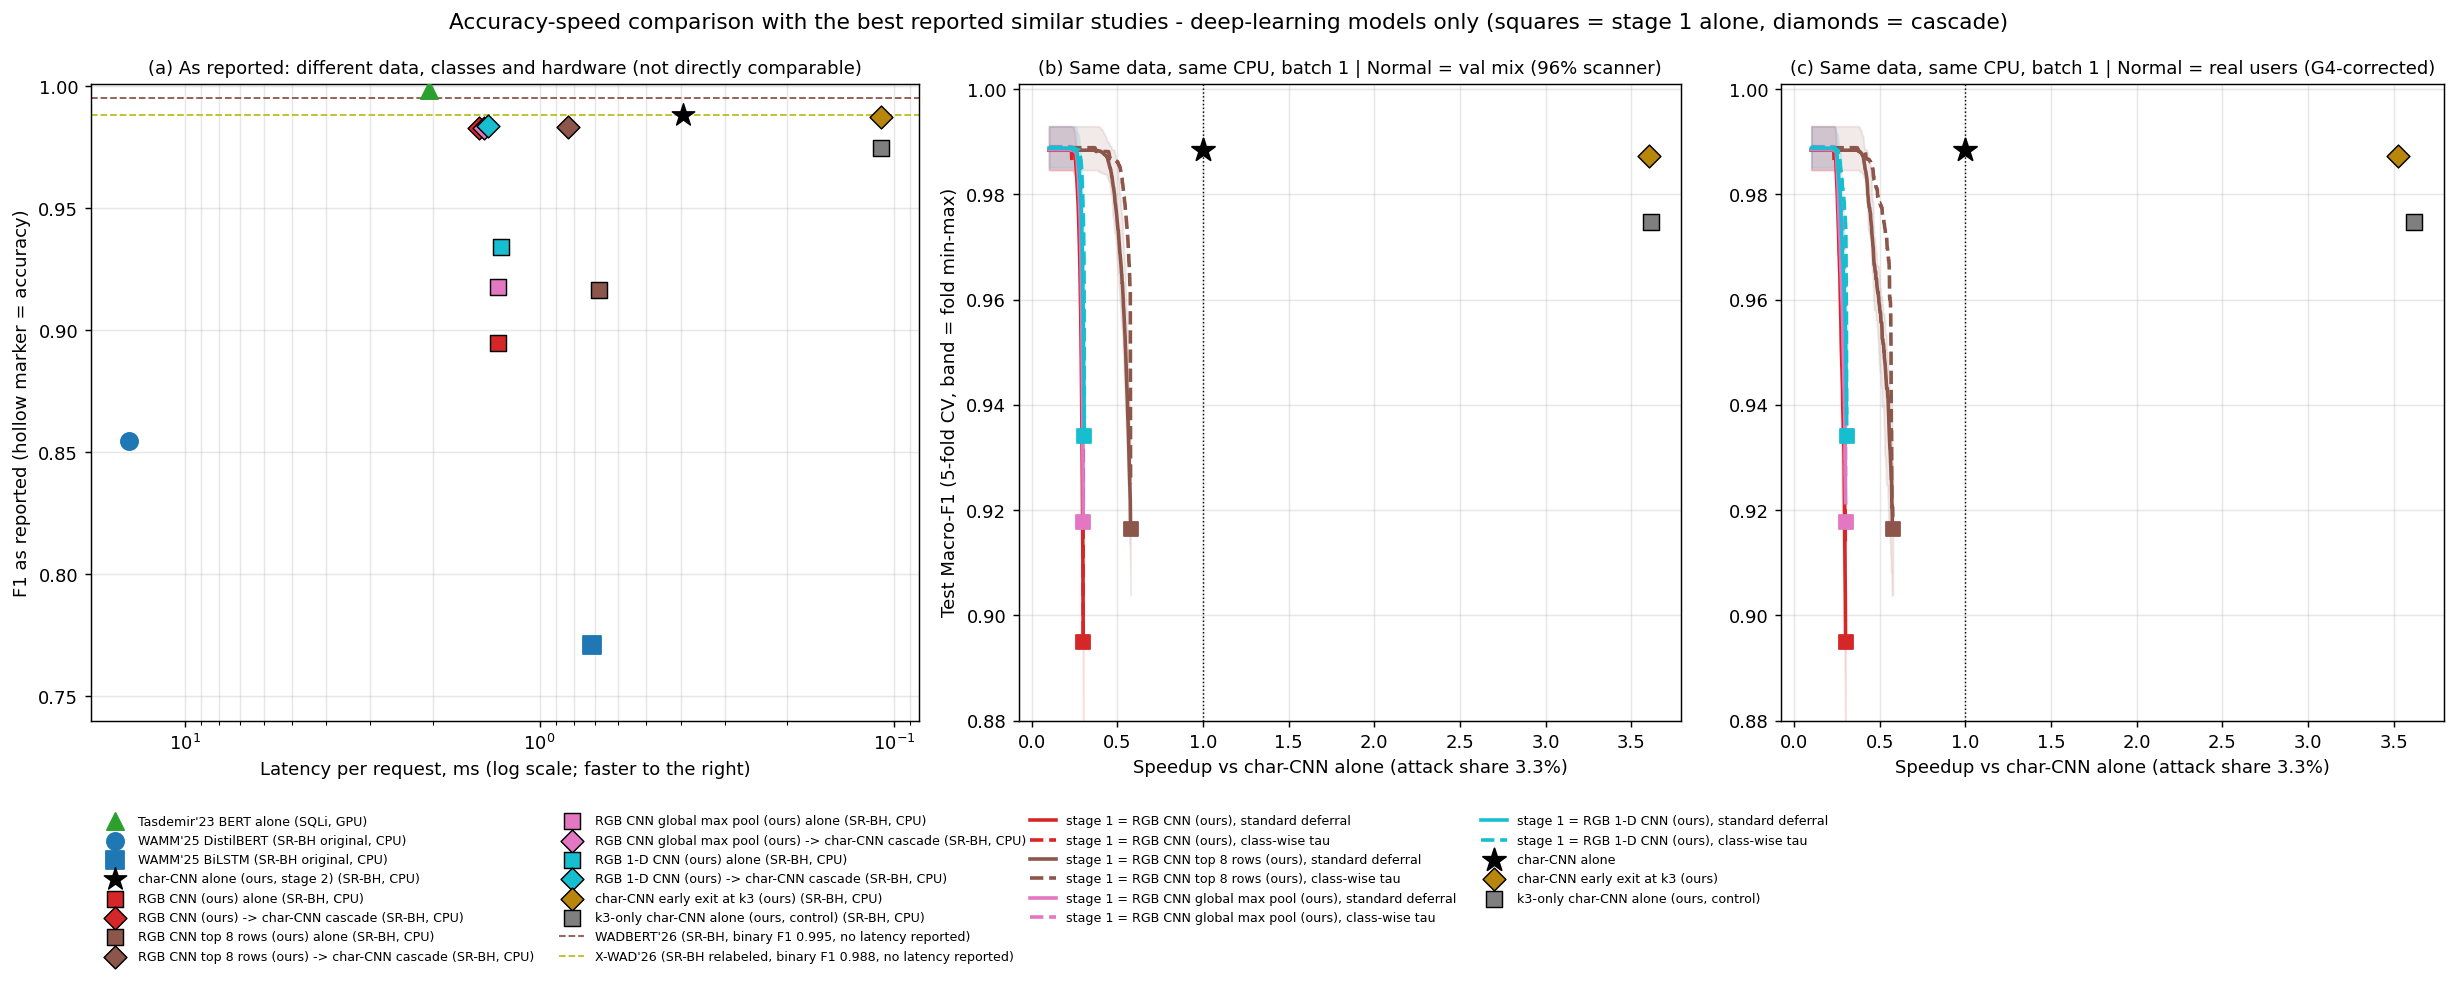
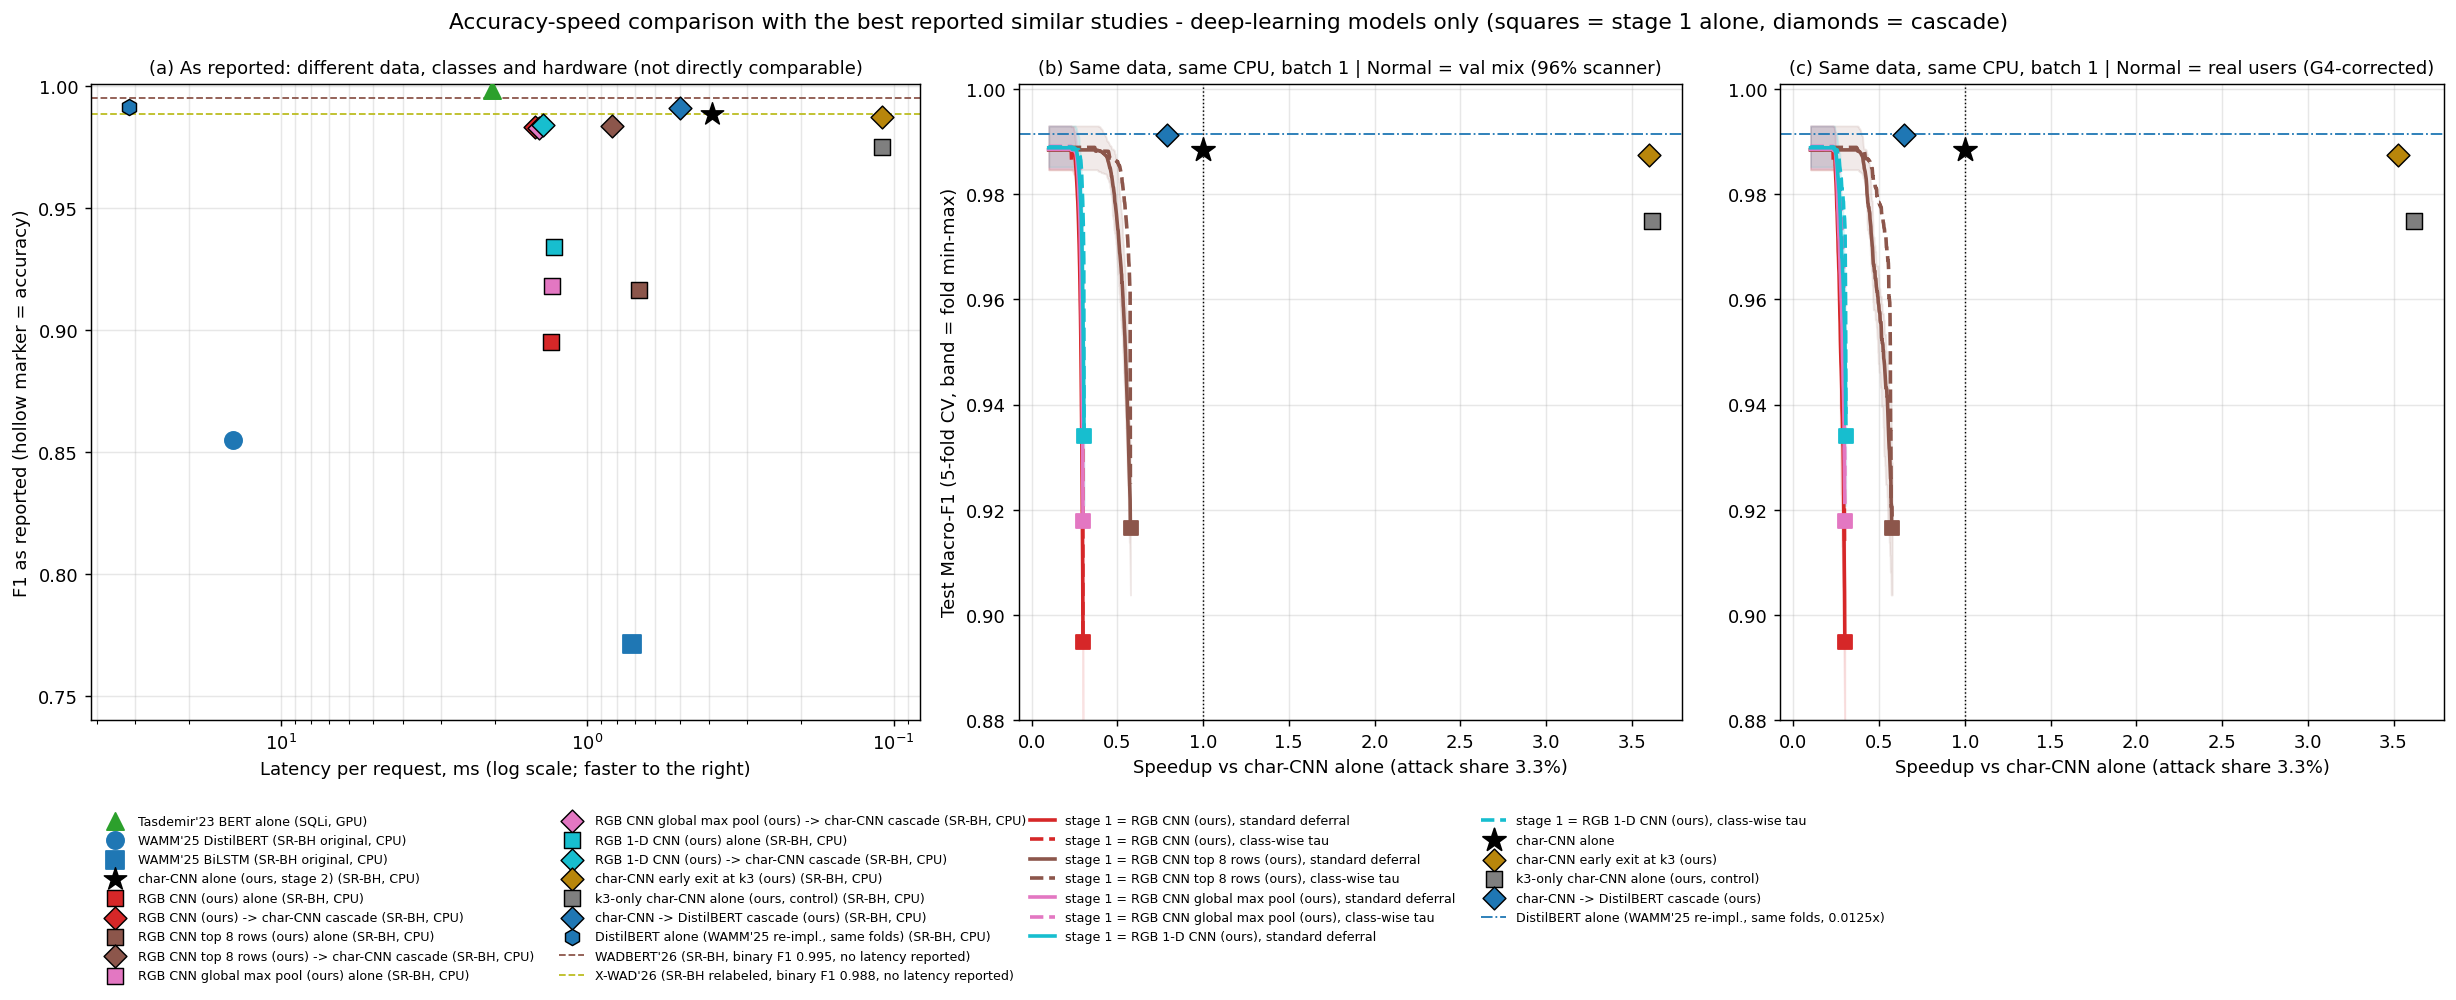
docs(roadmap): DL-A(E10) 결과 — char-CNN → DistilBERT 는 재구현 DistilBERT 단독보다 위다
같은 fold 로 재구현한 WAMM'25 DistilBERT 는 Macro-F1 0.9914 로 char-CNN 단독(0.9884)을 넘어
관문을 통과했지만 차이는 유의하지 않다(p 0.57). CPU 스레드 1 에서 45ms 로 char-CNN 의 80배다.
char-CNN → DistilBERT 캐스케이드는 실사용자 분포에서 DistilBERT 단독과 같은 정확도(−0.03%p)를
51.6배 빠르게 내 사전 기준을 채웠다(seed 42, fold 4 는 2.95배). char-CNN 단독은 80배지만
−0.303%p 로 0.3%p 조건을 근소하게 못 채웠다. 딥러닝 한정 유사 연구 그림에 두 점을 더한다.

diff --git a/src/eval/literature_compare.py b/src/eval/literature_compare.py
@@ -57,6 +57,8 @@ STAGE1_STYLE = {"rgb_cnn": ("tab:red", "RGB CNN (ours)"), "tfidflr": ("tab:purpl
 CLASSICAL_STAGE1 = {"tfidflr", "hashlr"}
 # 딥러닝 판에만 올리는 char-CNN 내부 조기 종료(DL-C, E8 운영점)와 k3 단독 대조(E9-1). 기술만 한다(사전 문서 §E9-3).
 DL_CASCADE = GF.RESULTS / "dl_cascade_srbh_4class.json"
+# 같은 SR-BH fold 로 재구현한 WAMM DistilBERT(E10-2 의 R)와 char-CNN → DistilBERT 운영점(E10-3). 기술만 한다.
+DL_A = GF.RESULTS / "dl_a_srbh_4class.json"
 
 
 def dl_cascade_points(view):
@@ -69,7 +71,22 @@ def dl_cascade_points(view):
     if "k3_alone" in result:
         points.append(("k3-only char-CNN alone (ours, control)", result["k3_alone"]["speedup"],
                        result["k3_alone"]["macro_f1"], "s", "tab:gray"))
+    if DL_A.exists():
+        # E10-3 운영점. 배수는 같은 실행의 char-CNN 지연 기준(t2 / (t2 + E_π·t_R)) — 이 그림의 다른 점과 같은 기준이다.
+        row = json.loads(DL_A.read_text(encoding="utf-8"))["e10_3"][view]
+        if "reason" not in row:
+            points.append(("char-CNN -> DistilBERT cascade (ours)", row["vs_charcnn"]["latency_ratio"],
+                           row["b0"]["macro_f1"], "D", "tab:blue"))
     return points
+
+
+def distilbert_reimpl():
+    """같은 fold 로 재구현한 WAMM DistilBERT 단독(E10-2 의 R): (char-CNN 대비 배수, Macro-F1). 없으면 None."""
+    if not DL_A.exists():
+        return None
+    result = json.loads(DL_A.read_text(encoding="utf-8"))
+    ms = result["latency_ms"]
+    return ms["t2"] / ms["t_R"], result["distilbert_macro_f1"]
 
 
 def stage1_styles(dl_only):
@@ -96,6 +113,9 @@ def ours_reported_style(analysis, styles, view="val_mix"):
     if "rgb_cnn" in styles and "tfidflr" not in styles:     # 딥러닝 판(stage1_styles(dl_only=True))에서만
         points += [(label, ms2 / speedup, score, marker, color)
                    for label, speedup, score, marker, color in dl_cascade_points(view)]
+        if distilbert_reimpl():
+            speedup, score = distilbert_reimpl()
+            points.append(("DistilBERT alone (WAMM'25 re-impl., same folds)", ms2 / speedup, score, "h", "tab:blue"))
     return points
 
 
@@ -144,6 +164,11 @@ def plot(analysis, loaded, styles, dl_only=False):
         for label, speedup, score, marker, color in (dl_cascade_points(GF.NORMAL_VIEWS[col][0]) if dl_only else []):
             ax.scatter([speedup], [score], marker=marker, s=80, color=color, edgecolors="k", linewidths=.8,
                        zorder=6, label=label)
+        if dl_only and distilbert_reimpl():
+            # 배수가 0.01 대라 점으로 찍으면 가로축이 눌린다 — 정확도만 가로선으로 보인다.
+            speedup, score = distilbert_reimpl()
+            ax.axhline(score, color="tab:blue", lw=1, ls="-.",
+                       label=f"DistilBERT alone (WAMM'25 re-impl., same folds, {speedup:.4f}x)")
         ax.axvline(1.0, color="k", lw=.8, ls=":")
         ax.set_ylim(0.88, 1.001)
         ax.set_xlabel("Speedup vs char-CNN alone (attack share 3.3%)")

diff --git a/CLAUDE.md b/CLAUDE.md
@@ -41,11 +41,14 @@
   - 📌 **견고성(docs/14 §8.27·§8.28)**: 템플릿 묶음 CV 에서 점수 유지(T5). 1차 class weight 결정은 CV 에서도 +27%(채움 기준·검증 분포) — test 의 0.99→1.45배(+46%)는 **확인용**으로 내리고, 실사용자 분포(+5%)·공정 지연(+1~6%)에서는 이득이 없다고 병기. 고정 test 는 아홉 번 평가에 쓰였다(감사표 §8.28). T8(2인 라벨 감사)은 미실시.
 - 📌 **딥러닝 한정 후속 후보(2026-10-11 등록 · 미측정, docs/14 §8.30)**: 사용자 방향 = 제안 구성은 딥러닝만(고전 ML 은 비교 기준으로만), RGB CNN 은 필수 아님 — ⚠ 마스터 문서·제목에는 미반영(교수 확인 전).
   `DL-A` char-CNN → 트랜스포머 · `DL-B` 더 작은 문자 모델 → char-CNN · `DL-C` char-CNN 내부 조기 종료. 관문: DL-B·C 는 char-CNN 층별 시간 측정(학습 불필요), DL-A 는 트랜스포머 단독 CV 가 0.9884 를 넘는가. 비교 대상은 char-CNN 단독.
-  ✅ **DL-B·C 관문 통과(2026-10-25, E7, docs/14 §8.31)**: `latency_fair.py --charcnn-breakdown` — 호출 고정비는 t2 의 8.5% 뿐, 91% 가 합성곱 → 상한 DL-B 7.24배·DL-C 3.03배(넘김 5.3% 가정). DL-A 관문은 미실시.
+  ✅ **DL-B·C 관문 통과(2026-10-25, E7, docs/14 §8.31)**: `latency_fair.py --charcnn-breakdown` — 호출 고정비는 t2 의 8.5% 뿐, 91% 가 합성곱 → 상한 DL-B 7.24배·DL-C 3.03배(넘김 5.3% 가정). DL-A 관문은 E10 에서 통과(아래).
   📌 **본 측정 E8(2026-10-25, docs/14 §8.32 · `dl_cascade.py --latency|--analyze`)**: DL-C(`charcnn_ee`) **char-CNN 단독보다 위**(실사용자 3.53배, F1 −0.10%p) · DL-B(`charcnn_tiny`) **위가 아니다**(2.39배지만 F1 −0.45%p > 0.3%p).
     ⚠ DL-C 이득은 넘김이 아니라 **보조 헤드(k3 분기) 자체**에서 나온다 — 5 fold 중 3개가 넘김 0%. "넘김 판단 개선"으로 쓰지 말 것.
     📌 **E9(docs/14 §8.33)**: seed 43 확인 **통과(2/2, 3.62배·F1 +0.33%p, 전 fold 넘김 0%)** · k3 단독 대조 `charcnn_k3` 0.9748(−1.36%p) → E8 미충족 = "결합 학습의 몫"(단 보조 헤드와 차이 p 0.34, k3 단독은 조기 종료로 불안정 — 최적화 안정성일 수 있음).
     → DL-C 는 넘김 축이 아니라 **2차 모델 압축(결합 학습한 k3 출구)**으로 서술. "유사 연구 대비 개선" 금지(그림은 `literature_compare.py --dl-only` 에 점만 추가).
+  📌 **DL-A(E10, 2026-10-25, docs/14 §8.34 · `dl_a.py --latency|--analyze`, 모델 `distilbert` = WAMM'25 DistilBERT 같은 fold 재구현)**: 관문 통과(0.9914 > 0.9884, 단 p 0.57). t_R 45.15ms = char-CNN 의 80배(같은 실행).
+    ✅ **char-CNN → DistilBERT 캐스케이드는 재구현 DistilBERT 단독보다 위**(실사용자 51.6배 · F1 −0.03%p, seed 42, fold 4 는 2.95배) — 교수 기준을 **재구현 기준으로** 충족한 첫 구성. char-CNN 단독은 80배지만 −0.303%p 로 0.003%p 차 미달.
+    ⚠ 캐스케이드의 char-CNN 대비 몫은 +0.28%p(p 0.34)·지연 1.56배 — "char-CNN 보다 정확"·"원 논문 대비 개선" 금지. ⚠ `distilbert` 는 토큰 id 입력이라 `cross_validate.TOKEN_MODELS` 에만 있고 `train.TEXT_MODELS` 에는 **일부러 없다**(train.py 는 바이트 경로뿐).
 - ⚠ `docs/thetics/` 는 **.gitignore 대상**(PDF 미추적) → **수집 목록의 유일한 추적본은 `docs/12` §1**. 논문을 추가하면 docs/12 도 함께 갱신.
 
 ## 데이터 파이프라인
@@ -75,7 +78,7 @@
 
 ## 모델 / 학습
 - 이미지 모델(같은 npz 입력): `cnn`(93,988p) · `cnn_ee`(조기종료, 백본 동일 + 보조 헤드 2개) · `vit`(단일 ViT, 2.7M) · `hybrid`(CNN stem+Transformer, 0.58M) — `src/models/cnn.py`, `vit.py`.
-  텍스트 모델: `charcnn` · `charcnn_tiny`(DL-B, 임베딩 32·k3·필터 64) · `charcnn_ee`(DL-C, k3 분기 보조 헤드 + 가중 0.3 결합 손실) · `charcnn_k3`(E9 대조, 임베딩 64·k3·필터 128 단독) · `bilstm`(`text_models.py`), 별도 sklearn 베이스라인 `baseline_tfidf.py`.
+  텍스트 모델: `charcnn` · `charcnn_tiny`(DL-B, 임베딩 32·k3·필터 64) · `charcnn_ee`(DL-C, k3 분기 보조 헤드 + 가중 0.3 결합 손실) · `charcnn_k3`(E9 대조, 임베딩 64·k3·필터 128 단독) · `bilstm`(`text_models.py`) · `distilbert`(E10, HF `distilbert-base-uncased`, 토큰 512, CV 전용), 별도 sklearn 베이스라인 `baseline_tfidf.py`.
   ⚠ 새 텍스트 모델은 `train.TEXT_MODELS`·`cross_validate.TEXT_NN_MODELS` 2곳, 다중 헤드면 `train.MULTI_HEAD_MODELS` 도. `charcnn_ee --save-probs` 는 보조 헤드 확률을 `cvprobs_{tag}_aux.npz` 로 따로 남긴다.
 - ⚠ 새 이미지 모델 추가 시 `IMAGE_MODELS` 를 **2곳** 갱신: `train.py`, `cross_validate.py`(트랙의 "5곳"과는 별개).
   1차 재설계 후보(E2, `cnn.build_e2_variant`): `cnn_crop8`(위 8행=384바이트) · `cnn_gmp`(전역 최대 풀링) · `cnn_1d`(3×2,304 1차원 conv).
